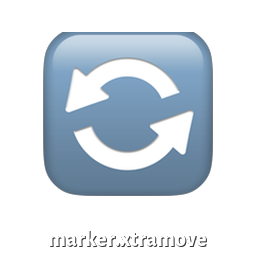
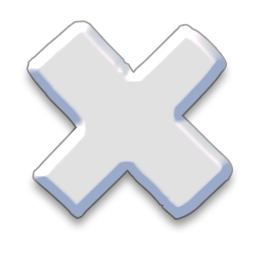
uxi-pass: start screen — centered, 'Play level' CTA, bottom art slot
menu content vertically centered above a new bottom-pinned menu.art
panel (same spec/template as end.art); CTA renamed 'Play level' and
enlarged; grey instruction hint removed. Includes the CD's latest art
wave (logo and more — 21 CD files now ledger-protected).

diff --git a/src/app.js b/src/app.js
@@ -764,8 +764,7 @@ function MenuScreen({ G }) {
       ? h`<img className="menu-logo" src=${SKIN.url('logo')} alt="Match-3 Roguelite — Ascent" />`
       : h`<h1>🏔 Match-3 Roguelite — Ascent</h1>`}
     <p className="sub">One board, one climb. Clear ${CONFIG.CHECKPOINTS.length} goals — each pays moves and a spell draft — then chase a high score until your moves run out.</p>
-    <button className="primary menu-start" onClick=${() => G.newRun(parseInt(seed, 10) || 1)}>Start run</button>
-    <p className="hint">Swipe or tap two adjacent tiles to swap. Match 4 → arrow, 5 → lightning, L/T shape → bomb.</p>
+    <button className="primary menu-start" onClick=${() => G.newRun(parseInt(seed, 10) || 1)}>Play level</button>
     <button className="devtoggle" onClick=${() => setDev(!dev)}>🛠 dev ${dev ? '▲' : '▼'}</button>
     ${dev ? h`<div className="dev-drawer">
       <label className="dev-seed">Seed <input value=${seed} onChange=${e => setSeed(e.target.value)} inputMode="numeric" /></label>
@@ -773,6 +772,9 @@ function MenuScreen({ G }) {
       <${ColourToggle} G=${G} />
       <${StatsPanel} />
     </div>` : null}
+    <div className="end-art menu-art">${SKIN.has('menu.art')
+      ? h`<img className="skin-img" src=${SKIN.url('menu.art')} alt="" />`
+      : h`<span className="end-art-label">menu.art</span>`}</div>
   </div>`;
 }
 

diff --git a/src/assets/styleguide.html b/src/assets/styleguide.html
@@ -66,7 +66,7 @@ const TAXONOMY = {
     ['special.arrow-h','↔'],['special.arrow-v','↕'],['special.lightning','⚡'],['special.bomb','💣'],
     ['tile.chest','🎁'],['tile.chomper','😬'],
   ],
-  'P1 — identity': [ ['bg.main','🌌'],['logo','🏔'],['icon.moves','👟'],['icon.flag','🚩'],['end.art','🖼'] ],
+  'P1 — identity': [ ['bg.main','🌌'],['logo','🏔'],['icon.moves','👟'],['icon.flag','🚩'],['end.art','🖼'],['menu.art','🖼'] ],
   'P2 — board & meters': [
     ['marker.xtramove','🔄'],['marker.pinata','🪅'],['marker.triple','✖'],
     ['icon.momentum','🚀'],['icon.fillup','🔋'],['icon.snowball','❄'],

diff --git a/src/styles.css b/src/styles.css
@@ -155,8 +155,9 @@ button.primary {
 .toggle b { color: var(--gold); }
 
 /* ------- menu (player-facing: logo + CTA; dev controls in the drawer) ------- */
-.menu-logo { width: 84%; max-width: 360px; margin-top: 44px; }
-.menu-start { margin-top: 12px; min-width: 220px; }
+.menu { justify-content: center; padding-bottom: 264px; } /* centered above the bottom art panel */
+.menu-logo { width: 84%; max-width: 360px; }
+.menu-start { margin-top: 14px; min-width: 250px; font-size: 26px; padding: 16px 40px; }
 .devtoggle {
   margin-top: 30px; font-size: 11px; font-weight: 800; letter-spacing: .1em;
   text-transform: uppercase; color: var(--text-faint);

diff --git a/tools/gen_placeholders.py b/tools/gen_placeholders.py
@@ -279,6 +279,7 @@ def main():
     jobs['bg.main'] = ('app/bg-main.png', lambda: bg_main('bg.main'))
     jobs['logo'] = ('app/logo.png', lambda: logo('logo'))
     jobs['end.art'] = ('app/end-art.png', lambda: end_art('end.art'))
+    jobs['menu.art'] = ('app/menu-art.png', lambda: end_art('menu.art'))
     for slot, ch in [('icon.moves', '👟'), ('icon.flag', '🚩'), ('icon.momentum', '🚀'),
                      ('icon.fillup', '🔋'), ('icon.snowball', '❄')]:
         jobs[slot] = (f'icons/{slot.split(".")[1]}.png', lambda s=slot, e=ch: emoji_icon(s, e))

diff --git a/ASSET_MANIFEST.md b/ASSET_MANIFEST.md
@@ -54,6 +54,7 @@ Review surface: `http://localhost:<port>/src/assets/styleguide.html` (run `sh sy
 | `icon.moves` | 👟 | 256×256 |
 | `icon.flag` | 🚩 (HUD + checkpoint) | 256×256 |
 | `end.art` | end-screen bottom art panel (placeholder gradient) | ~860×500, displayed 430×250 cover |
+| `menu.art` | start-screen bottom art panel | same spec as `end.art` |
 
 ## P2 — second wave
 
